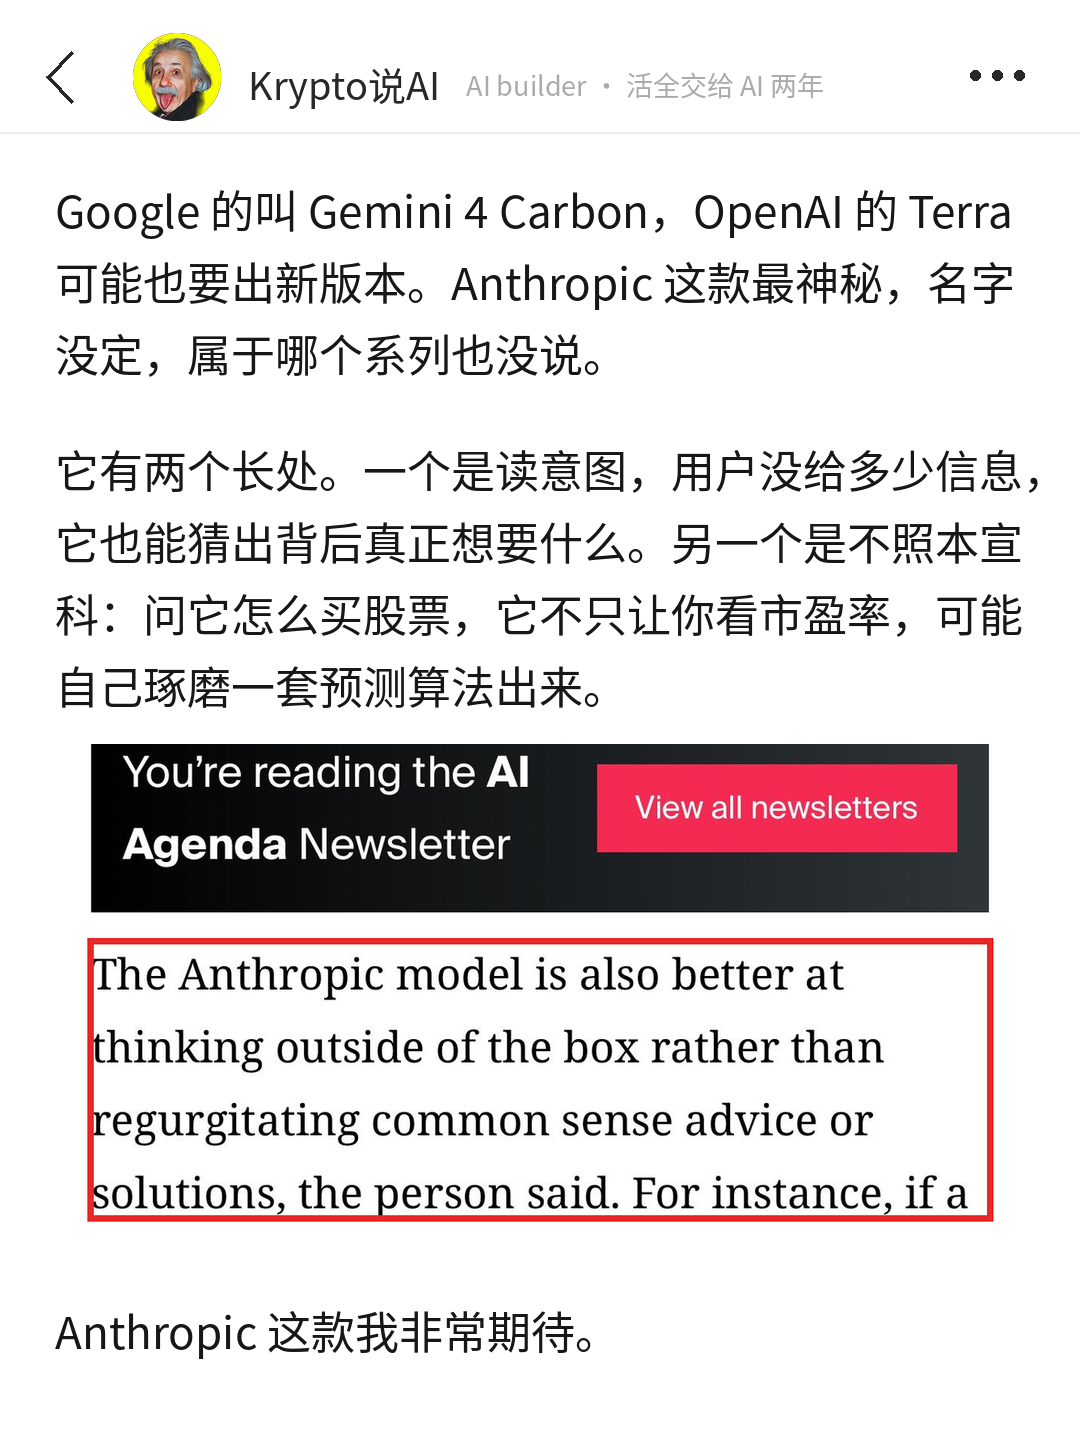
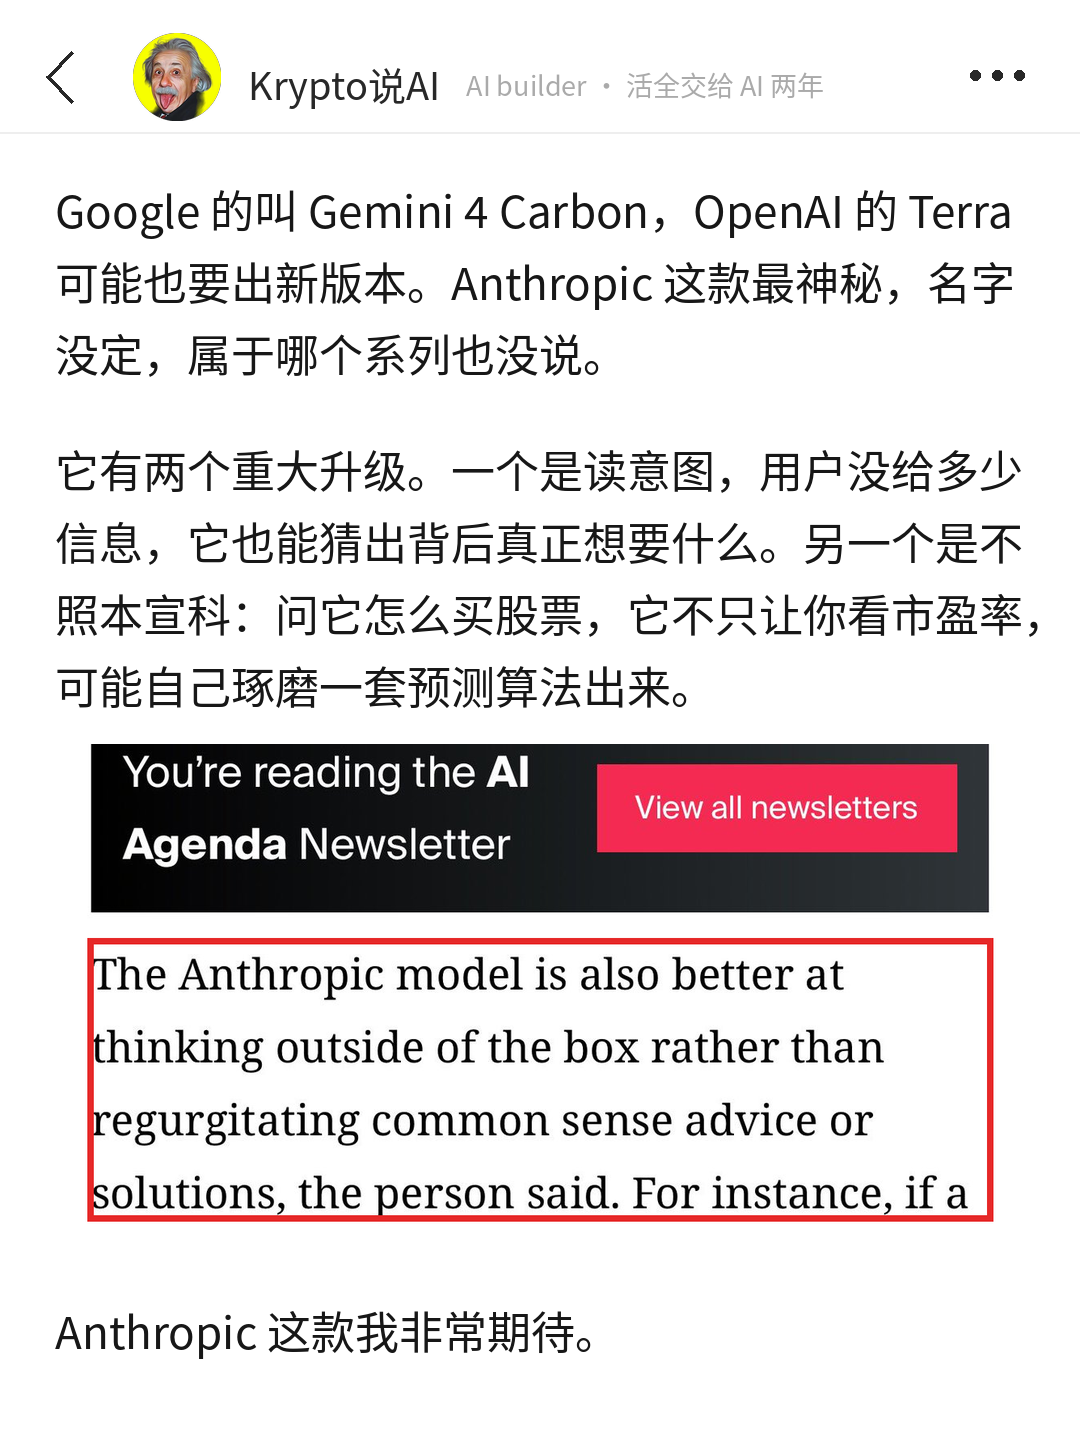
Anthropic 稿：「两个长处」改「两个重大升级」
Claude-Session: https://claude.ai/code/session_01AMNtEXjLouQeh7jZFHjYwS

Changed region(s): [[0.0306, 0.3125, 0.9472, 0.5]]

diff --git a/发布/2026-10-20_anthropic-new-model/meme版/编辑用/draft.md b/发布/2026-10-20_anthropic-new-model/meme版/编辑用/draft.md
@@ -21,7 +21,7 @@ account: Krypto说AI
 
 Google 的叫 Gemini 4 Carbon，OpenAI 的 Terra 可能也要出新版本。Anthropic 这款最神秘，名字没定，属于哪个系列也没说。
 
-它有两个长处。一个是读意图，用户没给多少信息，它也能猜出背后真正想要什么。另一个是不照本宣科：问它怎么买股票，它不只让你看市盈率，可能自己琢磨一套预测算法出来。
+它有两个重大升级。一个是读意图，用户没给多少信息，它也能猜出背后真正想要什么。另一个是不照本宣科：问它怎么买股票，它不只让你看市盈率，可能自己琢磨一套预测算法出来。
 
 ![The Information 的原话](newsletter_crop.png)
 
